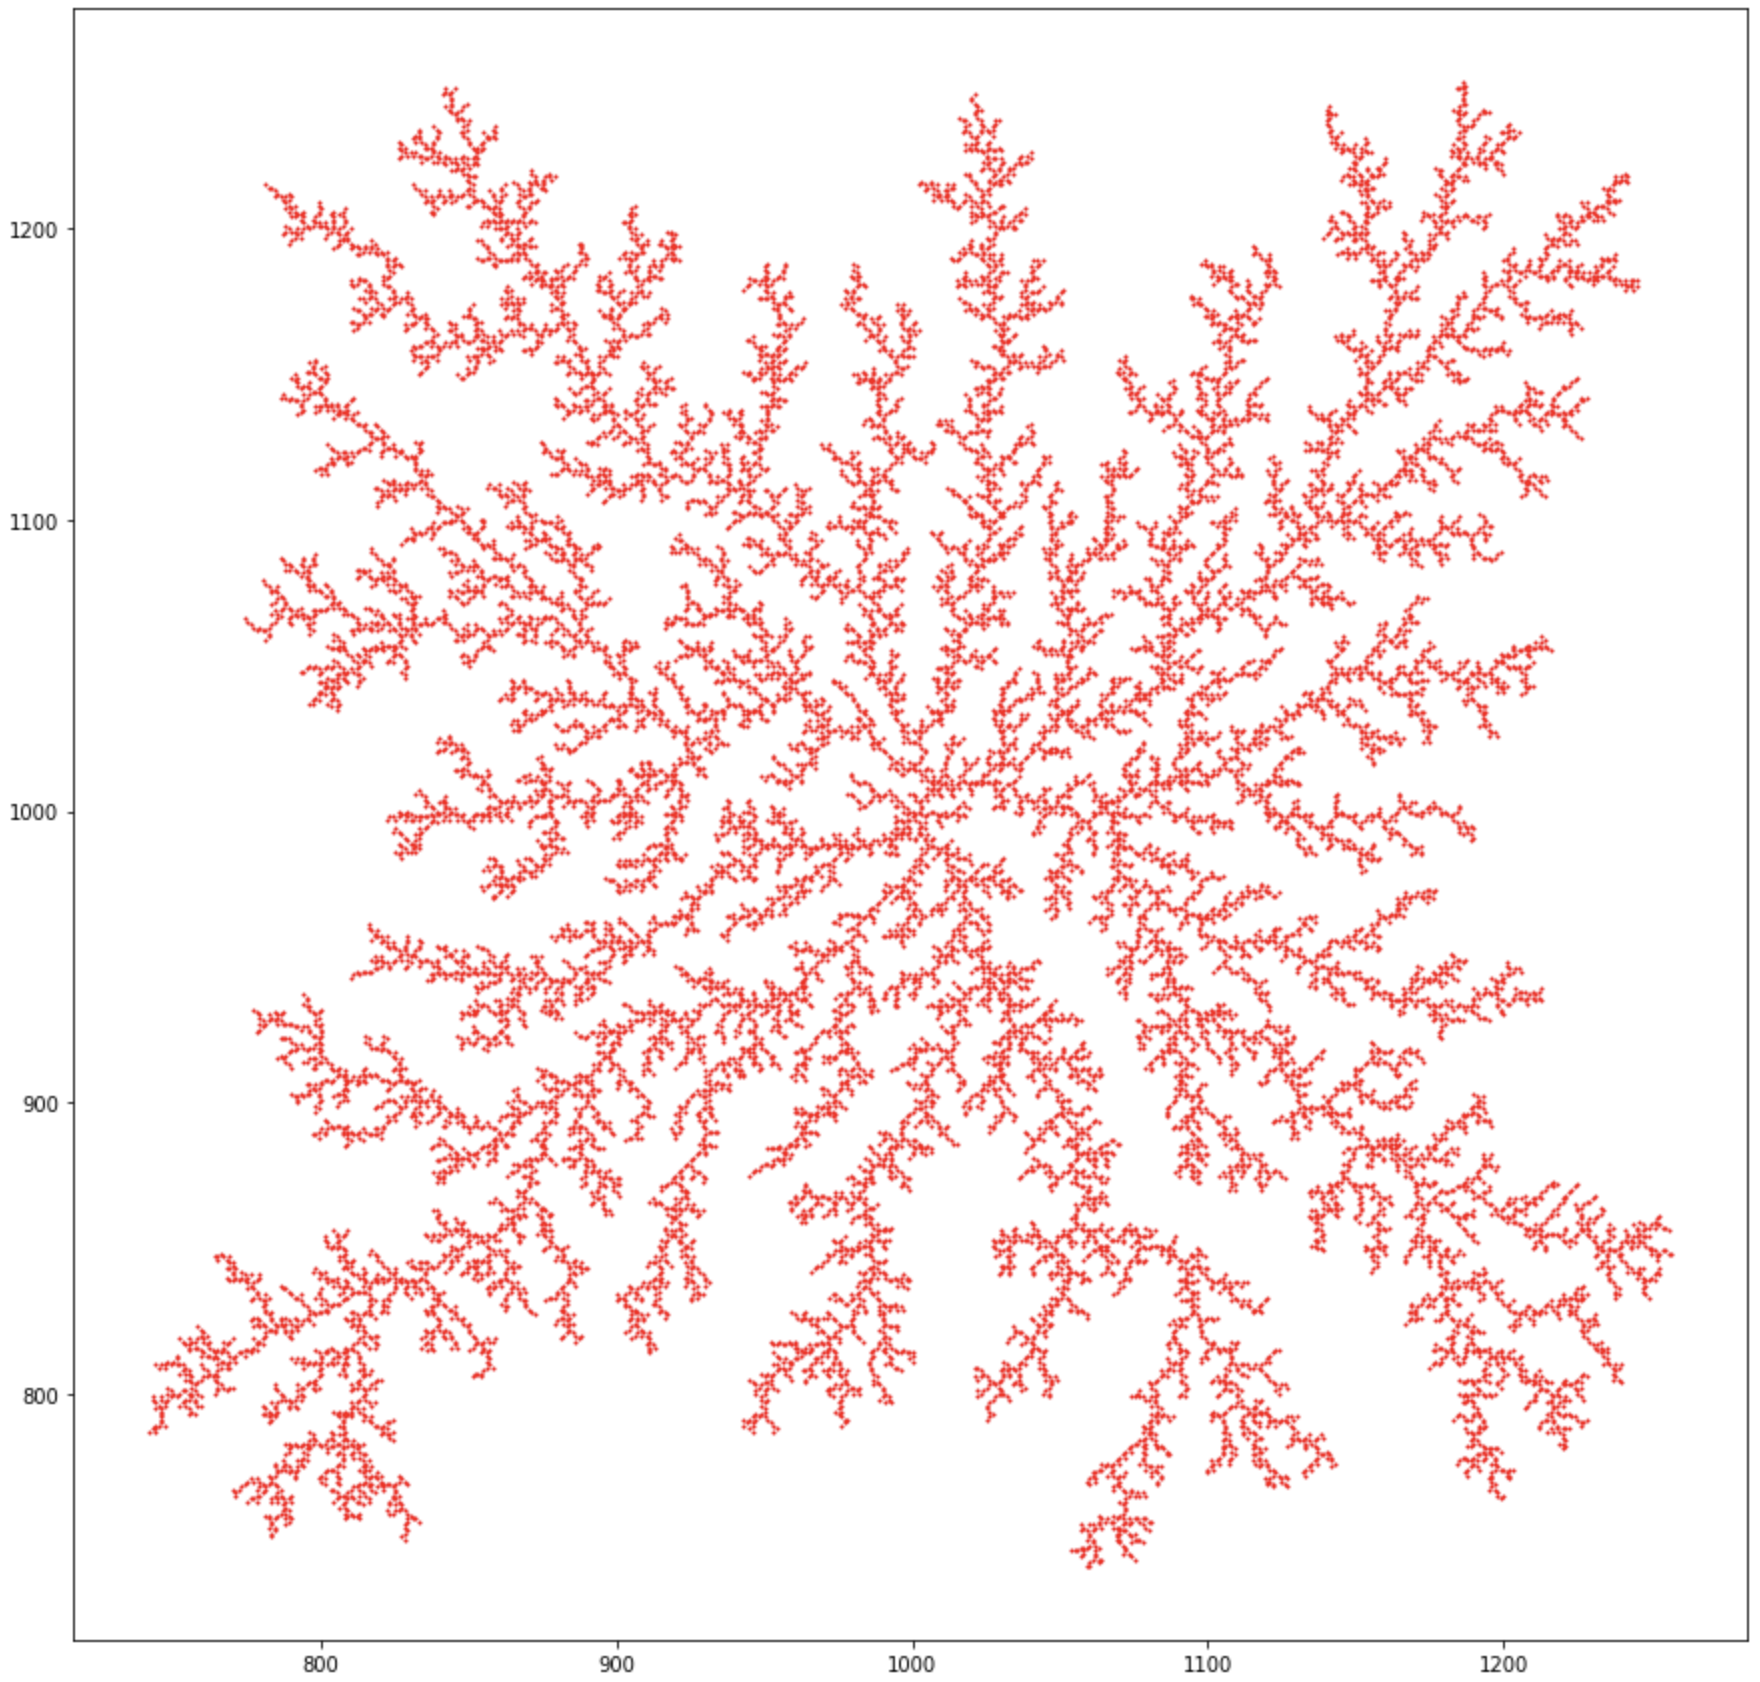
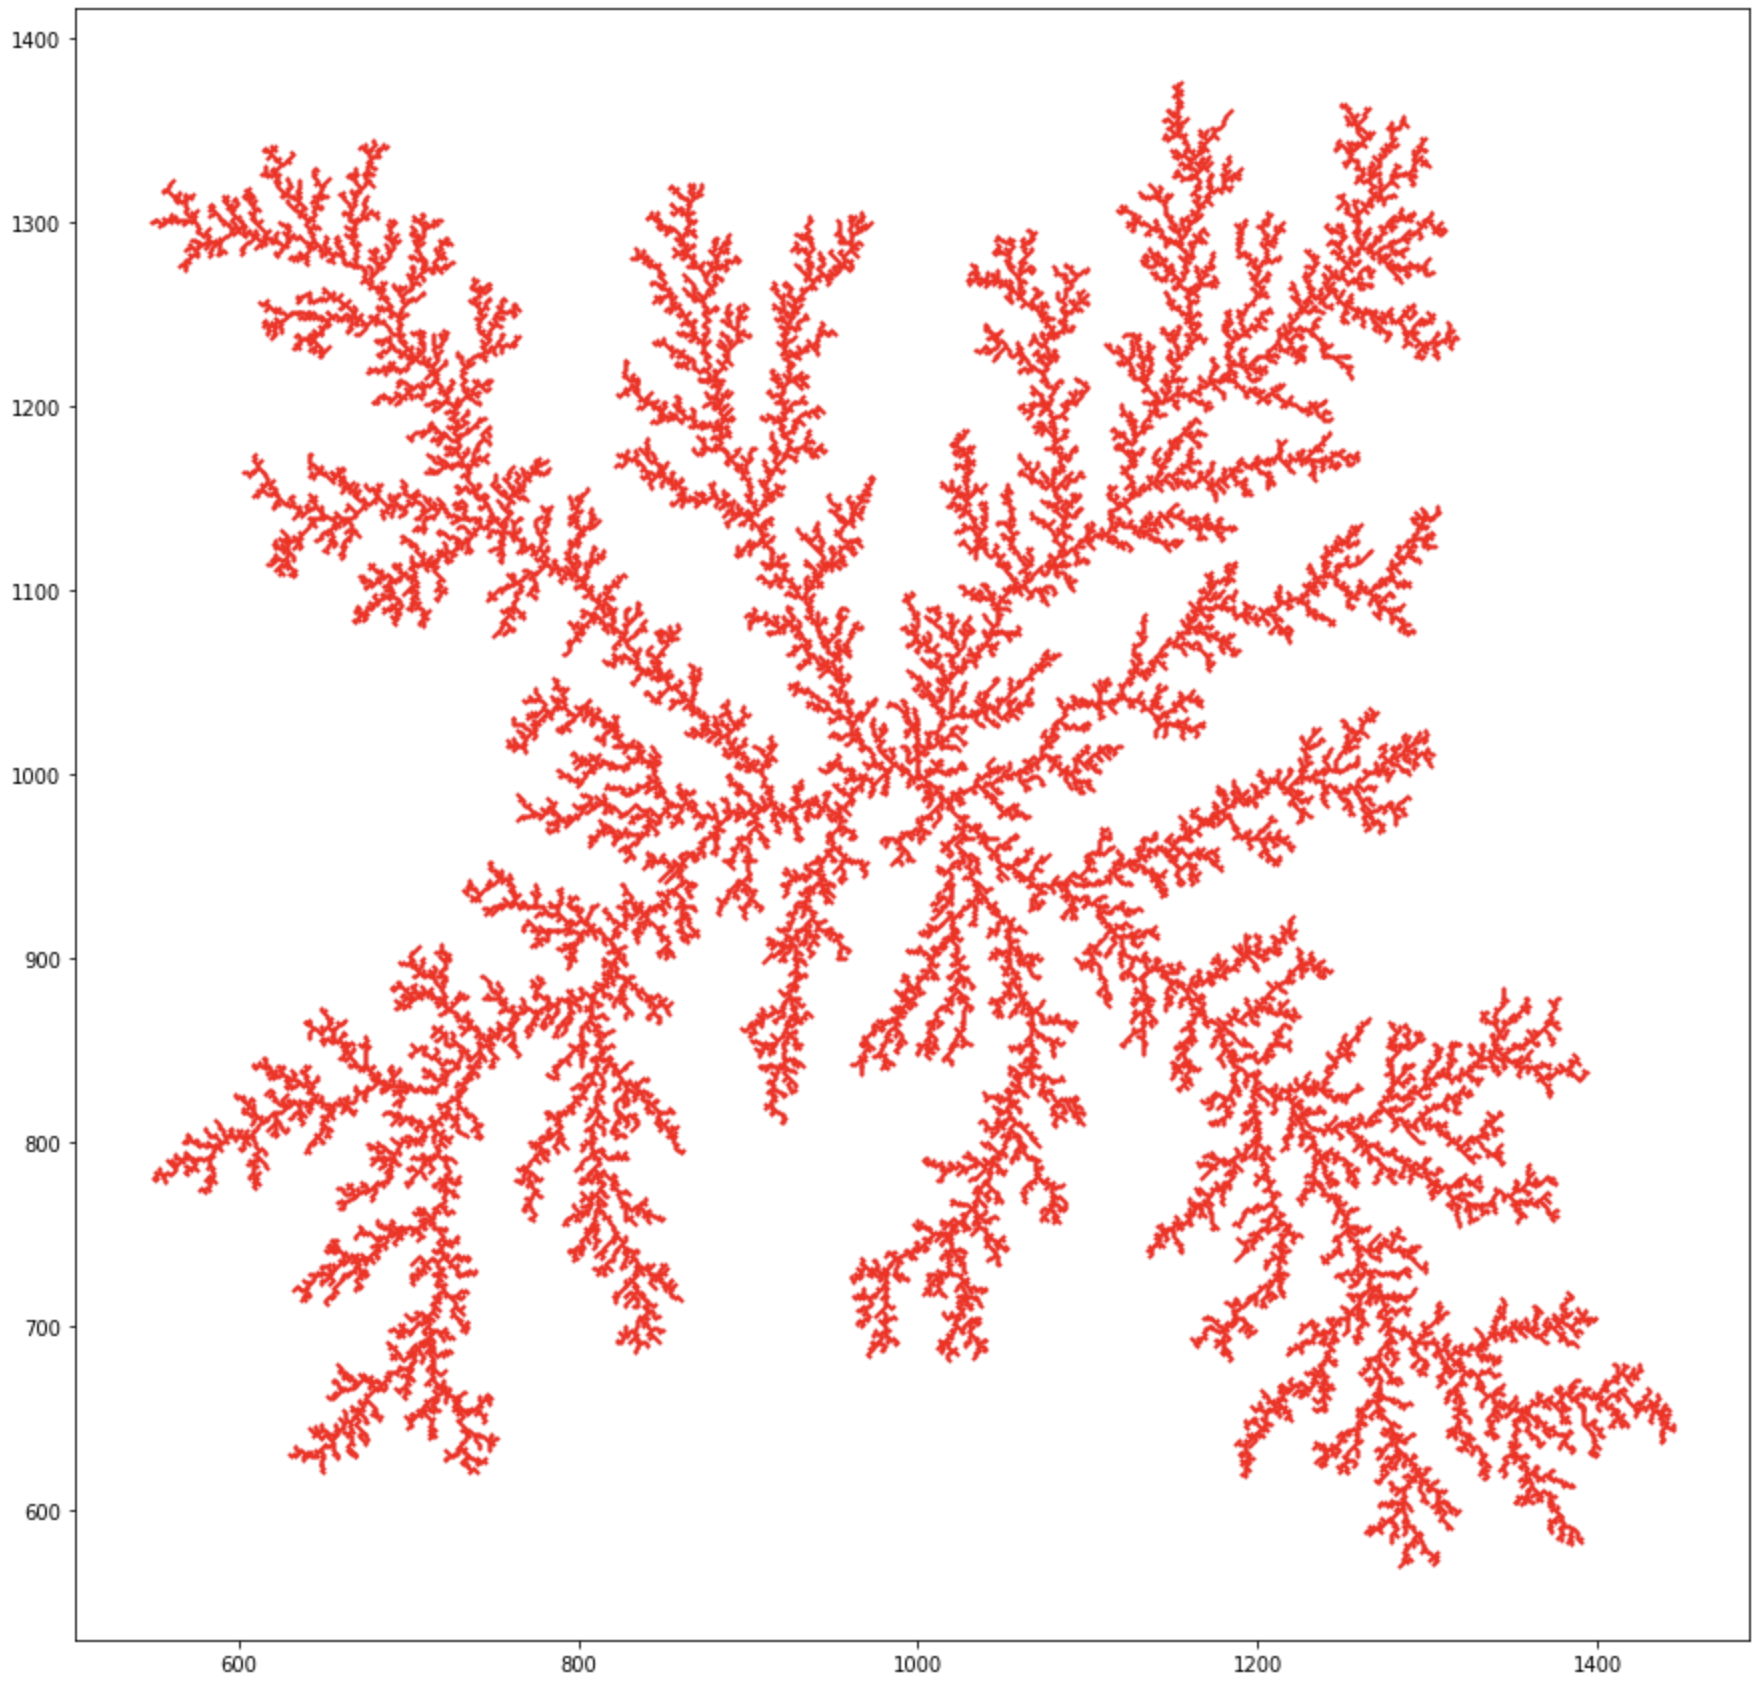
Updated example

diff --git a/diffusion_limited_aggregation.py b/diffusion_limited_aggregation.py
@@ -102,7 +102,7 @@ def DLA(N, N_particles, N_steps, R0, diagonals, r_ratio = 1.5):
         radius: the radius of the circle from the center of the grid
         N2: the index of the center of the square grid
         diagonals: if True, uses 8-way nearest neighbors (otherwise 4)
-        r_ratio: a scaling factor for the radius for particle regeneration
+        r_ratio: a scaling factor for the cluster radius used to determine particle regeneration distance and set the stray particle limit
     
     Returns:
         P: a (2 x N_particles) array of particle locations as grid indices 

diff --git a/README.md b/README.md
@@ -1,13 +1,13 @@
 # diffusion_limited_aggregation
 
-Computes a grid-based DLA using particle swarm diffusion. The method uses vectorized operations (numpy) operations for scalability.
+Computes a grid-based DLA using particle swarm diffusion. The method uses numpy's vectorized operations for scalability so larger particle swarms generally perform better.
 
-Particles are generated randomly along a circular radius that grows as the cluster grows. They diffuse by taking a single random step (vertically or horizontally) in the grid. 
+Particles are generated randomly along a circular radius that begins at a fixed distance (e.g. 100 cells away) but later grows in proportion to the cluster. Each diffusion step consists of a single random step (vertically or horizontally) in the grid. 
 
-Diffusion for any individual particle stops when it joins an adjacent cluster particle or strays too far from the cluster. In both cases, the particle is replaced with a new random particle along the current radius. 
+A particle is removed from the diffusion swarm when it comes in contact with a static neighbor (joining the cluster) or strays too far from the cluster. In both cases, the particle is replaced with a new random particle
 
 Adjacency can be determined by either 4-way or 8-way nearest neighbors, depending on the "diagonals" flag (True includes diagonals, making 8 neighbors).
 
 The following example was generated from the default parameters in the notebook.
 
-![An example of a DLA cluster with ~20,000 particles](example.png)
+![An example of a DLA cluster with ~37,000 particles](example.png)
